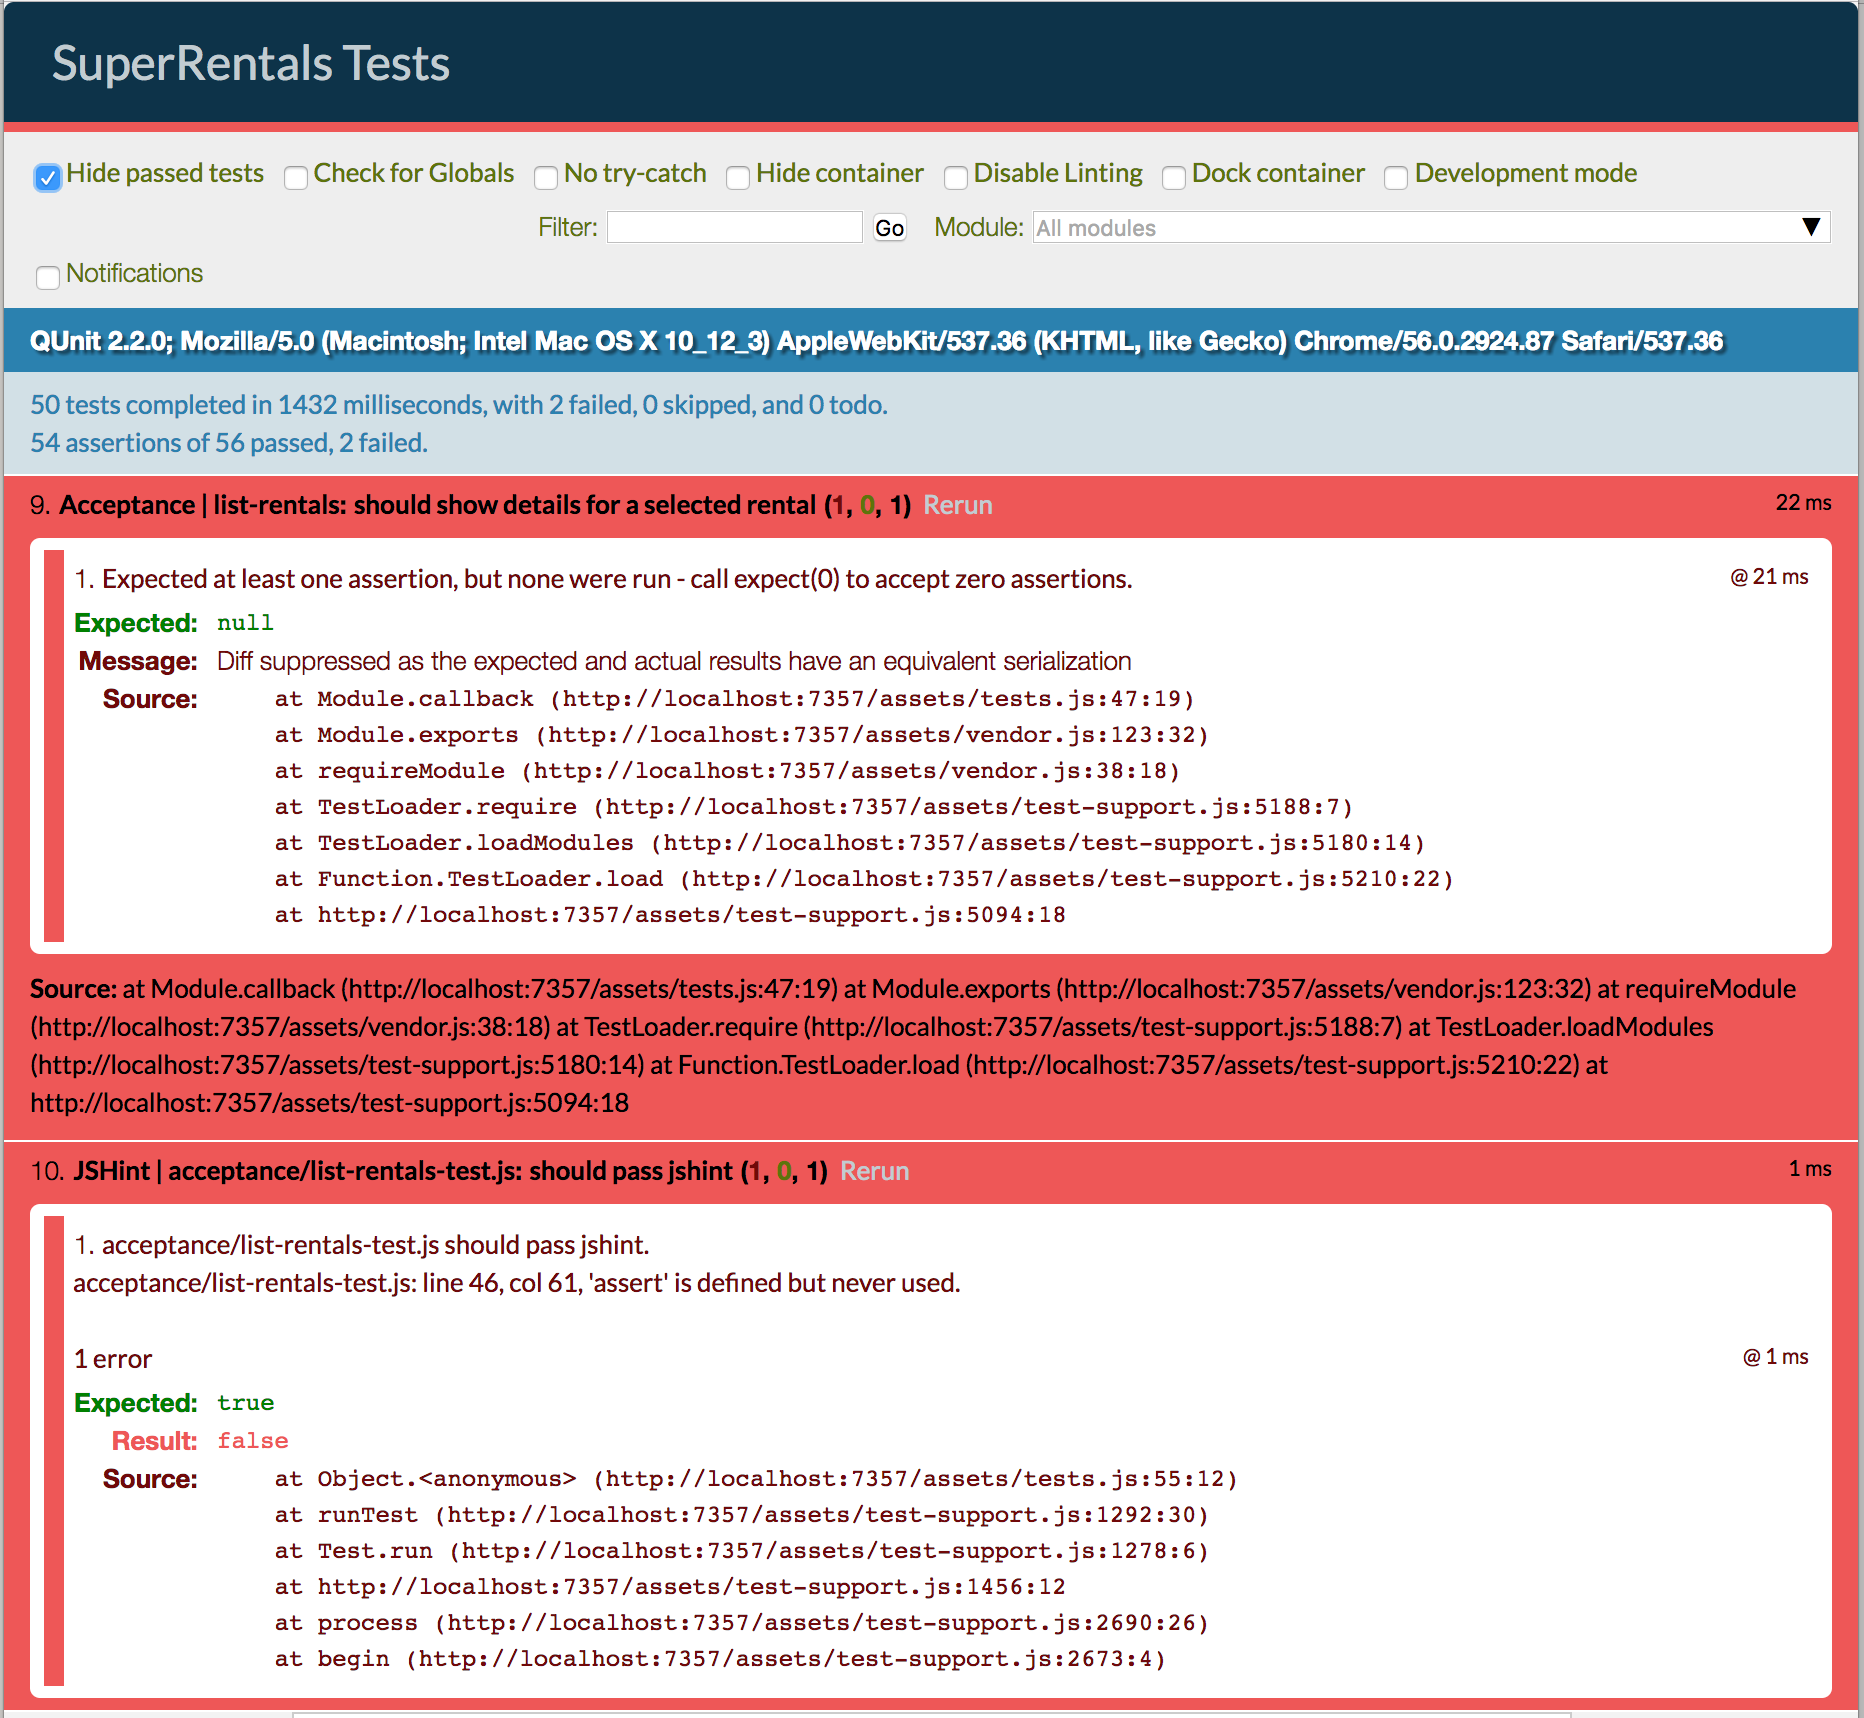
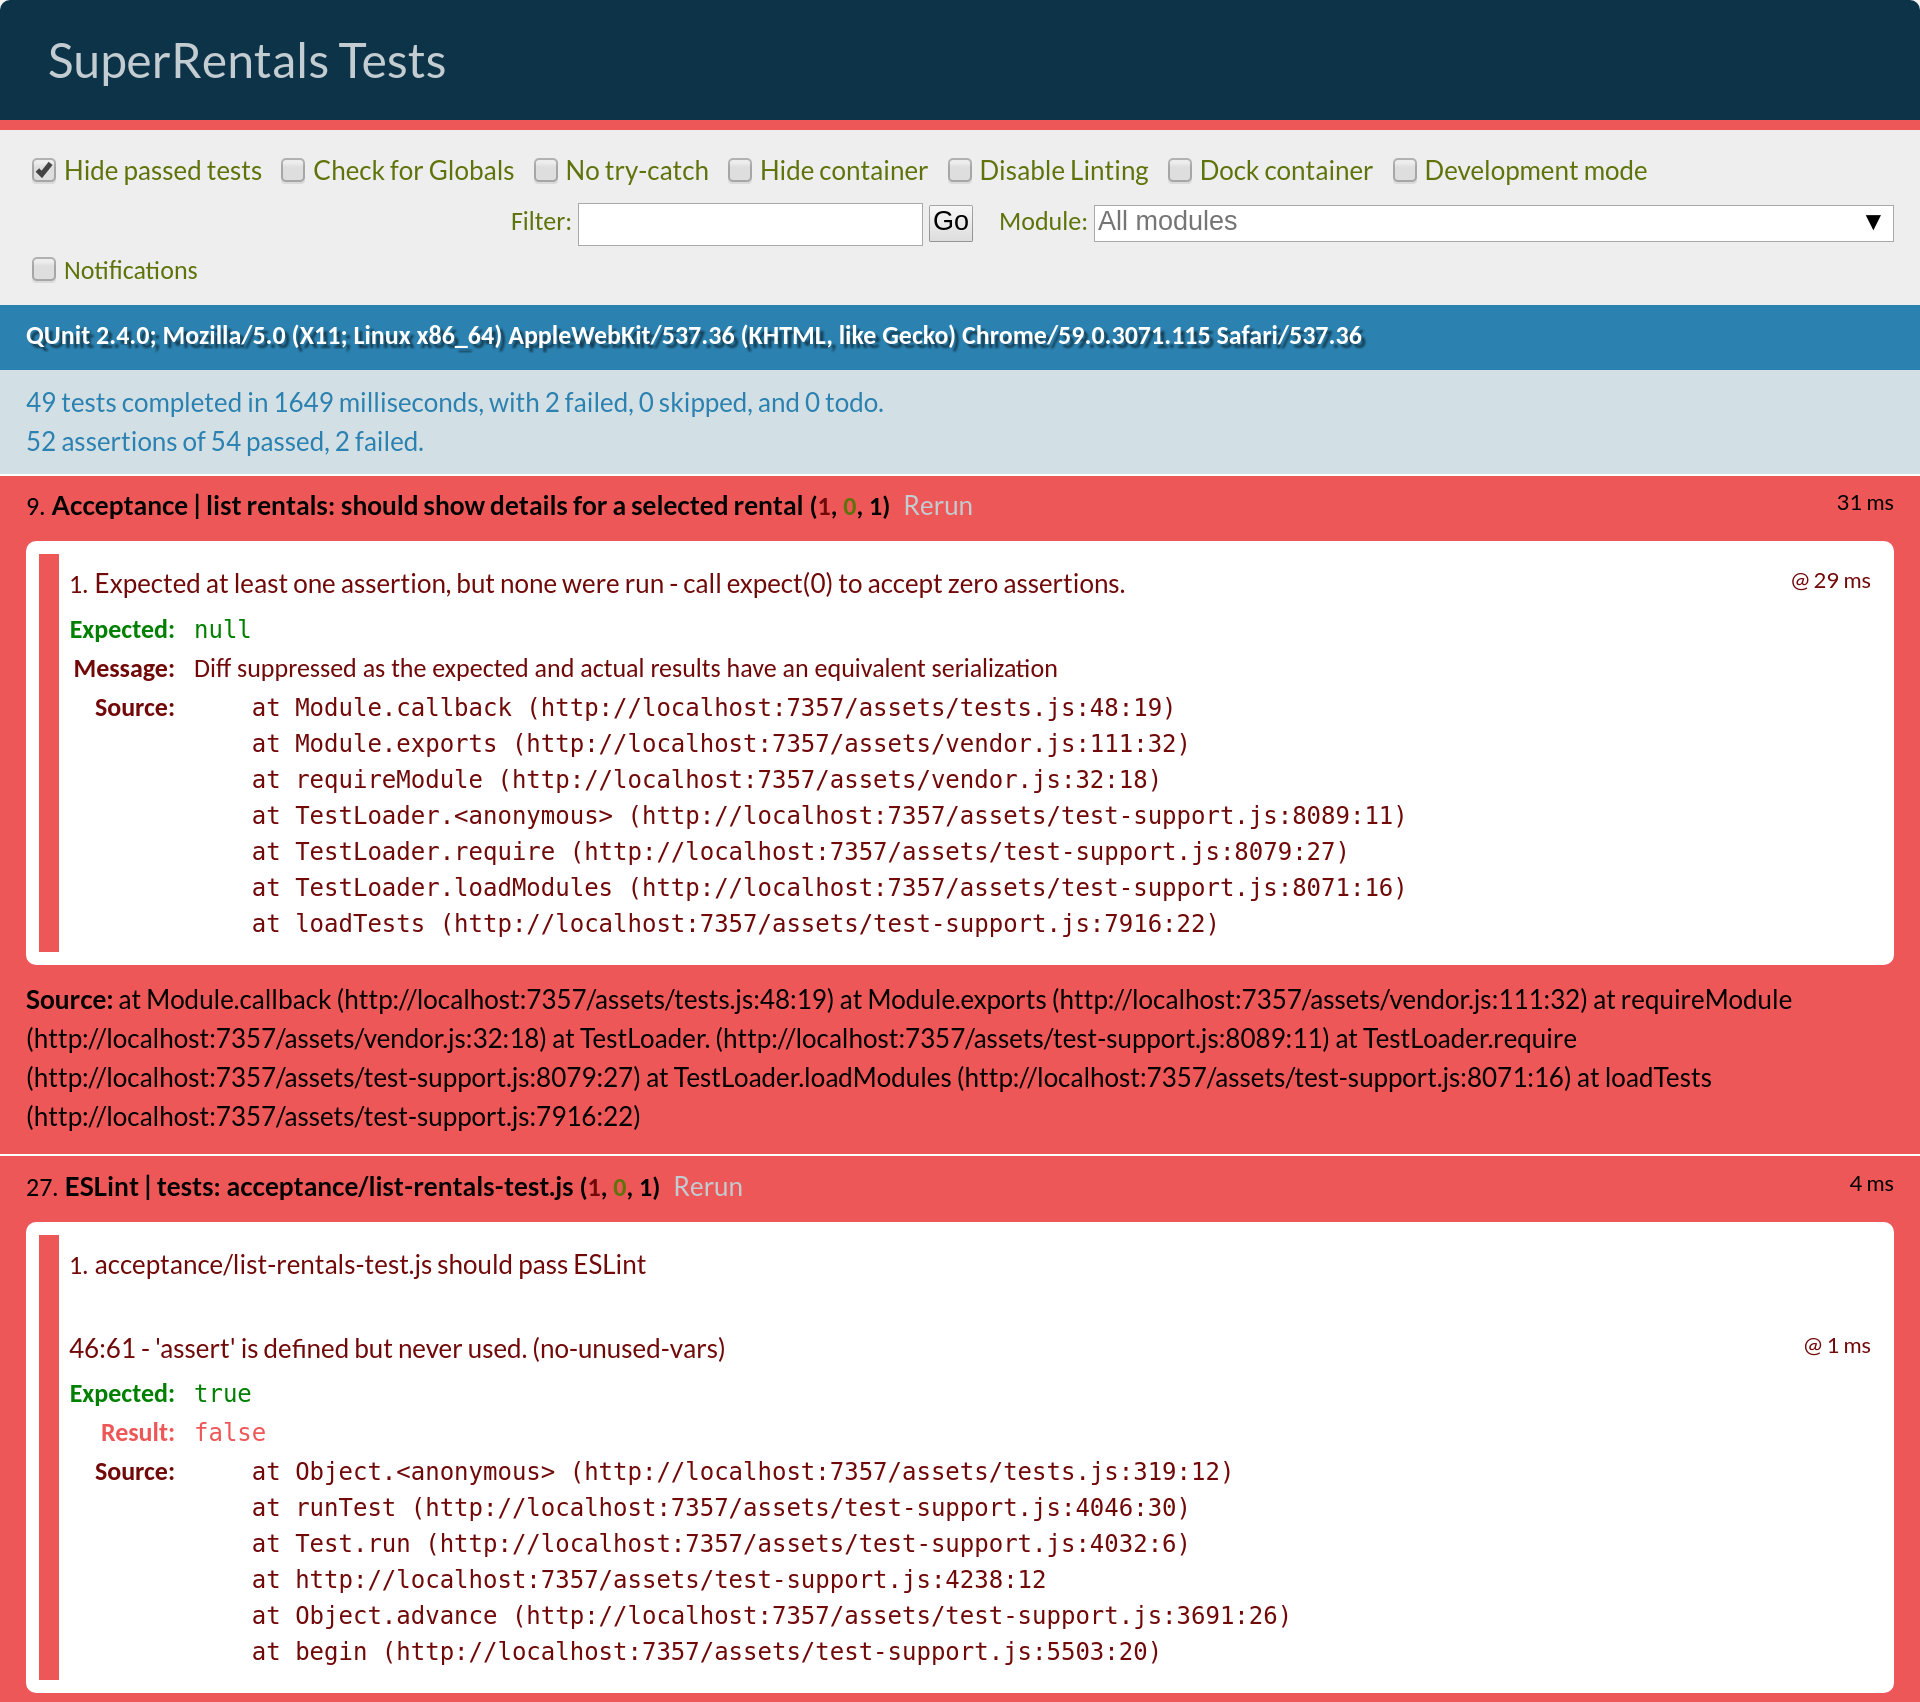
Replace JSHint with ESLint (#2012)
* changed image autocomplete-component acceptance-tests

* replace jshint with eslint testing/acceptance

* add eslint in glossary

* replace jshint with eslint

* fix jshint to eslint

* add specify command for windows

* replace image

* replace image 1920x1702

* adjusts information lint

* removed code

Changed region(s): [[0.0, 0.0, 1.0, 1.0], [0.0, 0.0, 0.8712, 0.1557]]

diff --git a/source/testing/acceptance.md b/source/testing/acceptance.md
@@ -223,23 +223,22 @@ export default Ember.Test.registerAsyncHelper('addContact',
 // addContact('Dan');
 ```
 
-Finally, don't forget to add your helpers in `tests/.jshintrc` and in
-`tests/helpers/start-app.js`. In `tests/.jshintrc` you need to add it in the
-`predef` section, otherwise you will get failing jshint tests:
+Finally, don't forget to add your helpers in `tests/.eslintrc.js` and in
+`tests/helpers/start-app.js`. In `tests/.eslintrc.js` you need to add it in the
+`globals` section, otherwise you will get failing ESLint tests:
 
-```tests/.jshintc
-{
-  "predef": [
-    "document",
-    "window",
-    "location",
-    ...
-    "shouldHaveElementWithCount",
-    "dblclick",
-    "addContact"
-  ],
-  ...
-}
+```tests/.eslintrc.js{-4,+5,+6,+7,+8,+9,+10}
+module.exports = {
+  env: {
+    embertest: true
+  }
+  },
+  globals: {
+    shouldHaveElementWithCount: true,
+    dblclick: true,
+    addContact: true
+  }
+};
 ```
 
 In `tests/helpers/start-app.js` you need to import the helper file: it

diff --git a/source/glossary/web-development.md b/source/glossary/web-development.md
@@ -39,10 +39,12 @@ Both LESS and Sass are types of CSS preprocessor markup intended to give you muc
 [Sass/Less Comparison](https://gist.github.com/chriseppstein/674726)
 
 
-## Linter, linting, jslint, jshint
+## Linter, linting
 A validation tool which checks for common issues in your JavaScript. You'd usually use this in your build process to enforce quality in your codebase. A great example of something to check for: *making sure you've always got your semicolons*.
 
-[An example of some of the options you can configure](http://jshint.com/docs/options/)
+An example of some of the options you can configure:
+[ESLint](http://eslint.org/docs/rules/)
+[JSlint](http://jshint.com/docs/options/)
 
 
 ## Polyfill

diff --git a/source/tutorial/model-hook.md b/source/tutorial/model-hook.md
@@ -126,6 +126,6 @@ test('should list available rentals.', function (assert) {
 Run the tests again using the command `ember t -s`, and toggle "Hide passed tests" to show your new passing test.
 
 Now we are listing rentals, and and verifying it with an acceptance test.
-This leaves us with 2 remaining acceptance test failures (and 1 jshint failure):
+This leaves us with 2 remaining acceptance test failures (and 1 eslint failure):
 
 ![list rentals test passing](../../images/model-hook/model-hook.png)

diff --git a/source/addons-and-dependencies/managing-dependencies.md b/source/addons-and-dependencies/managing-dependencies.md
@@ -36,7 +36,7 @@ Provide the asset path as the first and only argument.
 app.import('bower_components/moment/moment.js');
 ```
 
-You will need to add `"moment"` to the `predef` section in `.jshintrc` to prevent JSHint errors
+You will need to add `"moment"` to the `globals` section in `.eslintrc.js` to prevent ESLint errors
 about using an undefined variable.
 
 ### AMD JavaScript modules
